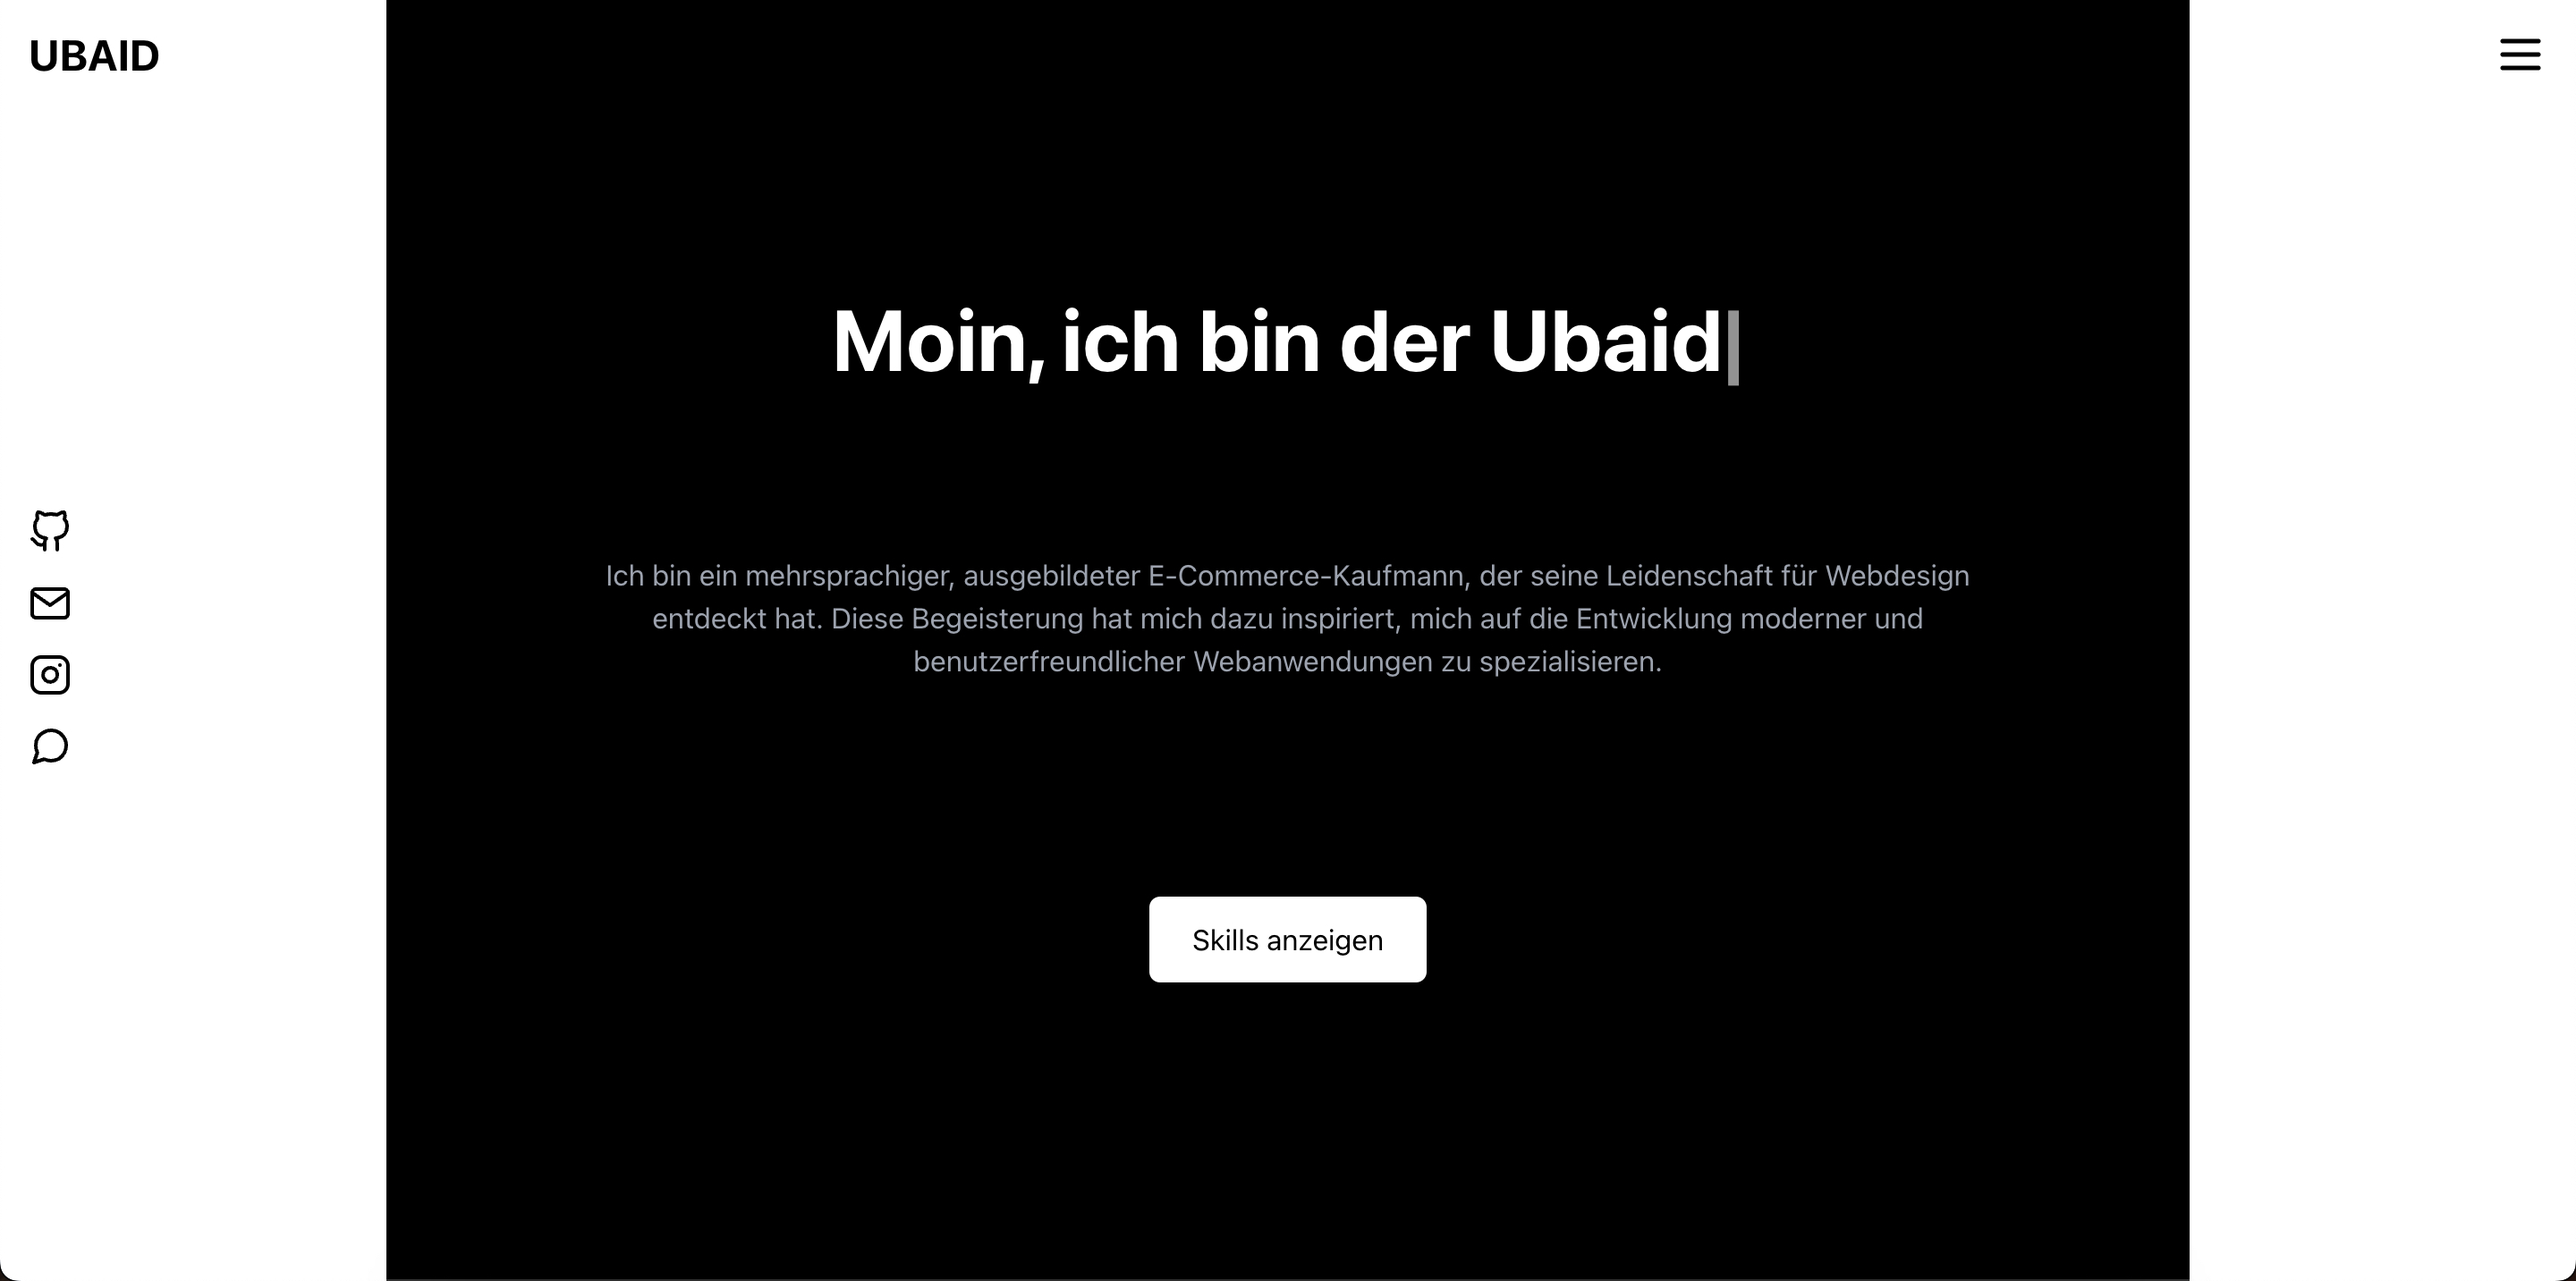
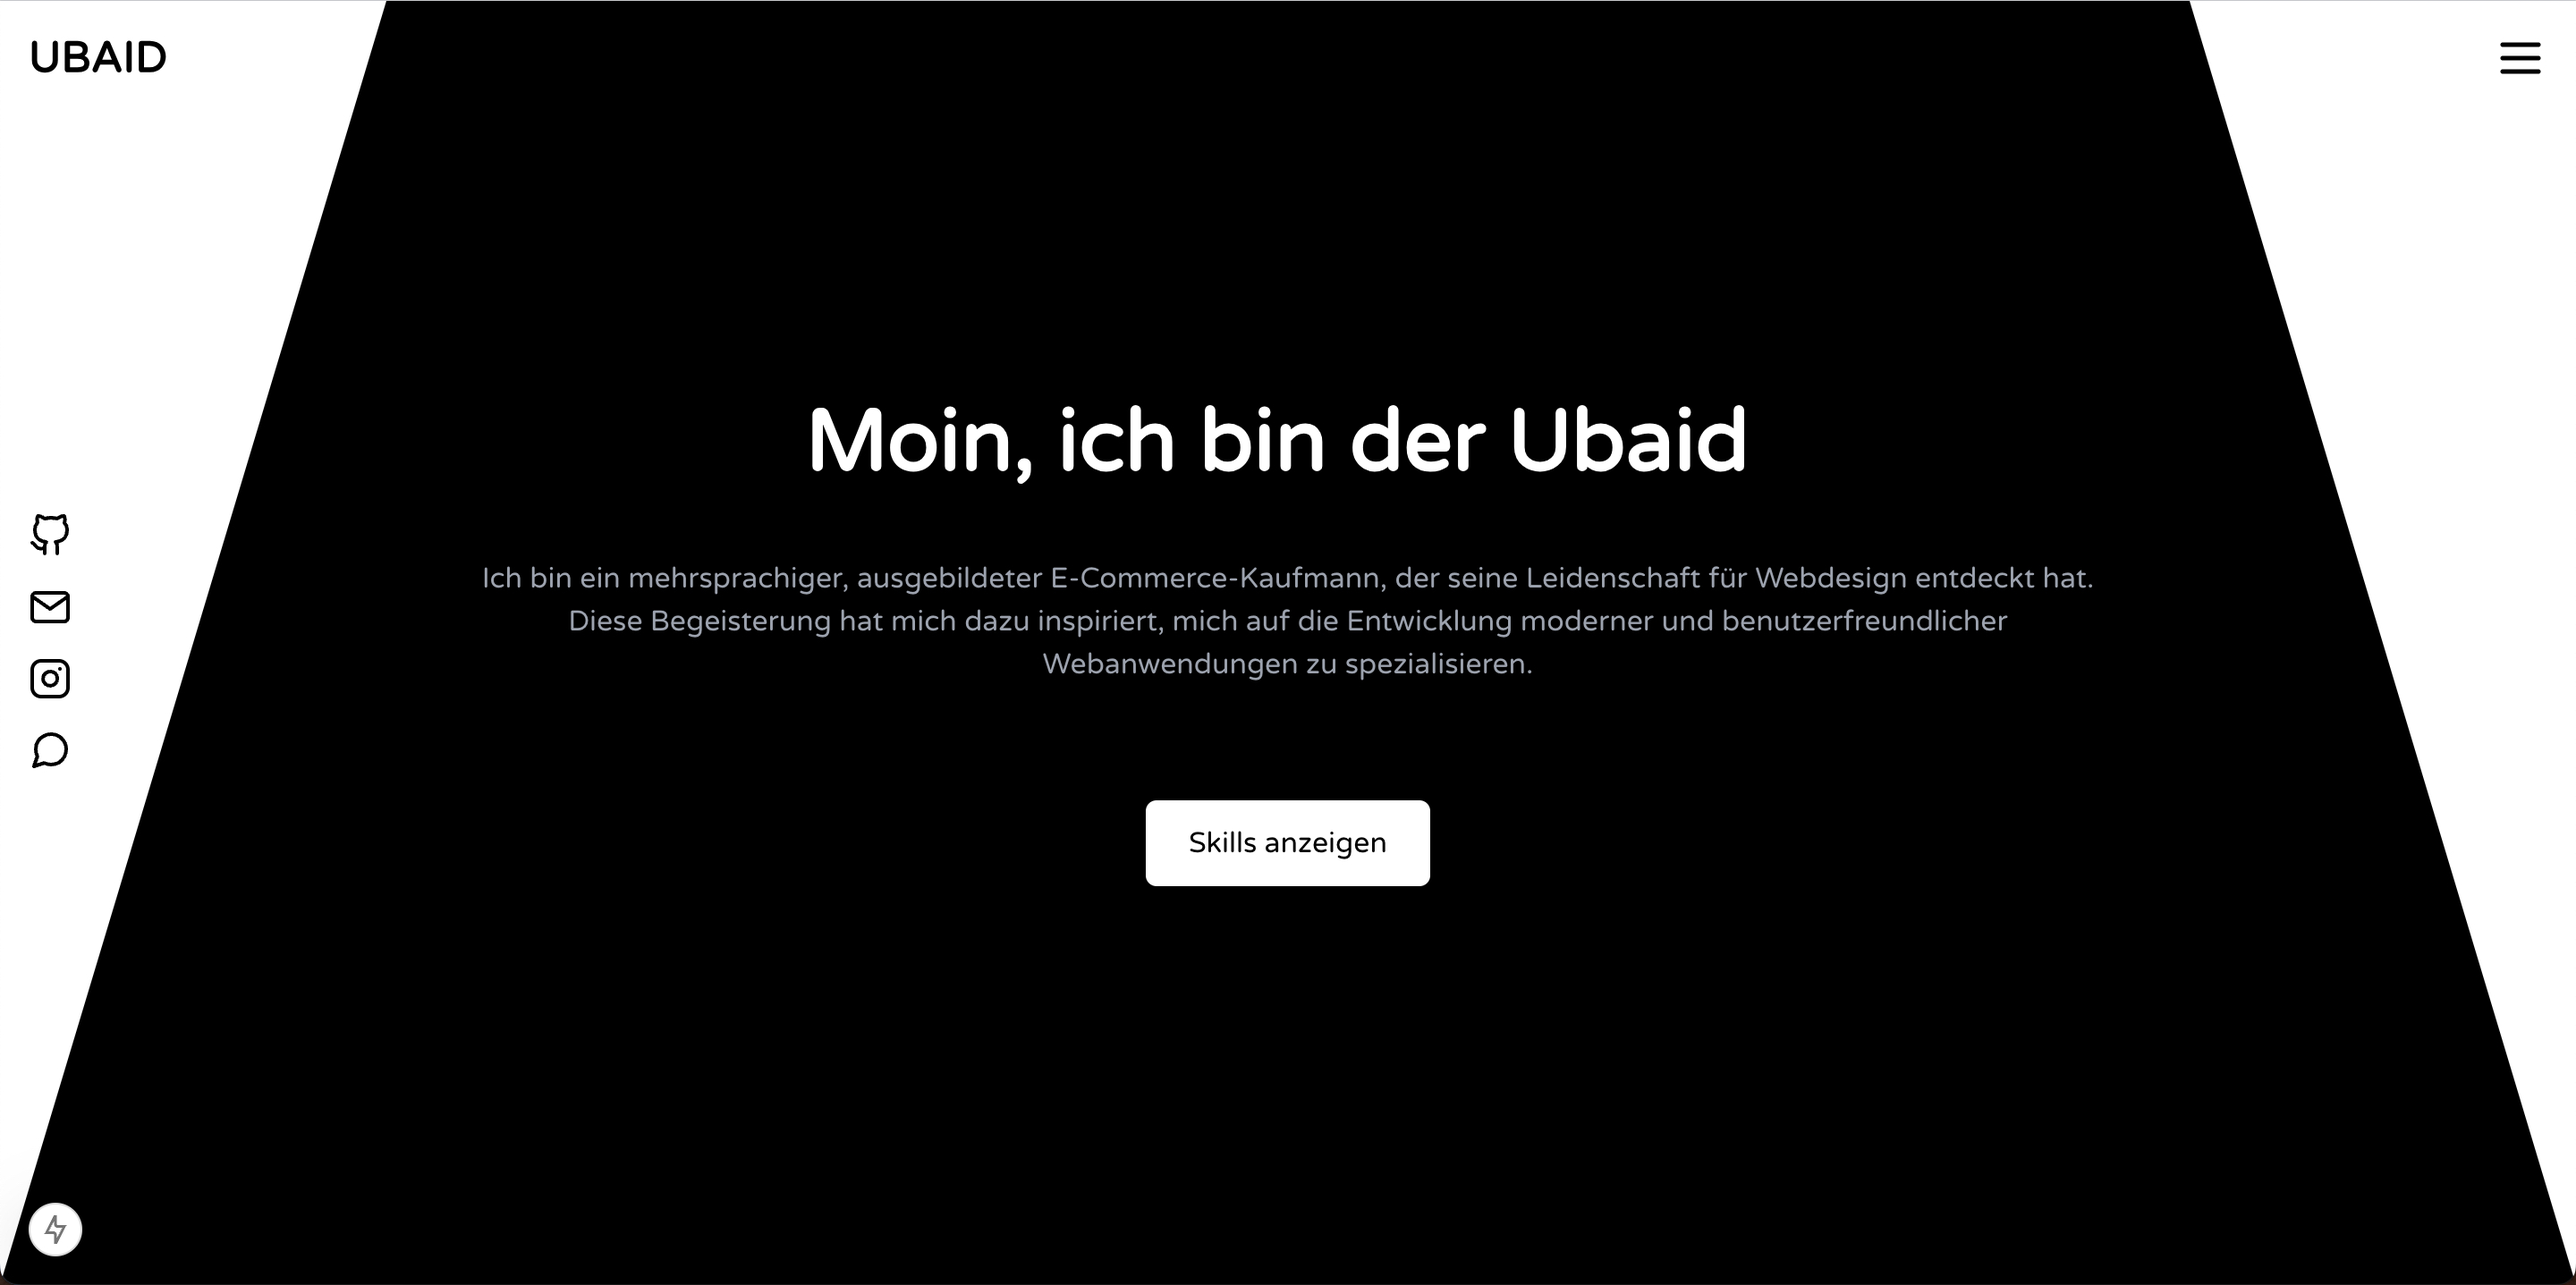
Designverbesserungen

diff --git a/components/HeroSection.tsx b/components/HeroSection.tsx
@@ -30,19 +30,25 @@ export default function HeroSection() {
       <Header isMenuOpen={isMenuOpen} setIsMenuOpen={setIsMenuOpen} />
 
       {/* Left white column (social icons) - hidden on mobile */}
-      <div className="hidden md:flex md:w-[15%] bg-white justify-left items-center p-4 min-h-screen">
-        <div className="flex flex-col space-y-4">
-        <SocialIcon icon="github" />
-        <SocialIcon icon="email" />
-        <SocialIcon icon="instagram" />
-        <SocialIcon icon="whatsapp" />
-        </div>
-      </div>
+      <div className="hidden md:flex md:w-[15%] bg-white justify-left items-center p-4 min-h-screen relative overflow-hidden">
+  {/* Diagonale Hälfte */}
+  <div className="absolute top-0 left-0 w-full h-full bg-black clip-diagonal-flipped" />
+
+  {/* Inhalte */}
+  <div className="flex flex-col space-y-4 relative z-10">
+    <SocialIcon icon="github" />
+    <SocialIcon icon="email" />
+    <SocialIcon icon="instagram" />
+    <SocialIcon icon="whatsapp" />
+  </div>
+</div>
+
+
 
       {/* Middle column */}
       <div className="w-full md:w-[70%] flex flex-col justify-center items-center px-4 py-20">
         <TypedHeadline headlines={headlines} />
-        <p className="text-[clamp(1rem, 2.5vw, 1.25rem)] animate-fade-in-up text-gray-700 md:text-gray-400 p-20">
+        <p className="text-[clamp(1rem, 2.5vw, 1.25rem)] animate-fade-in-up text-gray-700 md:text-gray-400 p-6 md-p-20">
         Ich bin ein mehrsprachiger, ausgebildeter E-Commerce-Kaufmann, der seine Leidenschaft für Webdesign entdeckt hat. Diese Begeisterung hat mich dazu inspiriert, mich auf die Entwicklung moderner und benutzerfreundlicher Webanwendungen zu spezialisieren.
         </p>
 
@@ -56,7 +62,12 @@ export default function HeroSection() {
       </div>
 
       {/* Right white column */}
-      <div className="hidden md:block md:w-[15%] bg-white min-h-screen"></div>
-    </div>
+      <div className="hidden md:block md:w-[15%] bg-white min-h-screen relative overflow-hidden">
+        {/* Diagonale schwarze Fläche */}
+        <div className="absolute top-0 left-0 w-full h-full bg-black clip-triangle-up-left" />
+      </div>
+
+
+</div>
   )
 }

diff --git a/styles/globals.css b/styles/globals.css
@@ -2,6 +2,20 @@
 @tailwind components;
 @tailwind utilities;
 
+/* Standard-Schriftart für alle Elemente */
+html {
+  font-family: var(--font-varela-round), sans-serif;
+}
+
+/* Optionale Feinjustierung für andere Elemente */
+body {
+  margin: 0;
+  padding: 0;
+  font-size: 16px; /* Basisgröße (kann angepasst werden) */
+  line-height: 1.5; /* Lesbarkeit verbessern */
+}
+
+
 .tooltip {
     position: absolute;
     display: inline-block;
@@ -27,4 +41,76 @@
   .tooltip:hover::after {
     opacity: 1;
   }
+  
+  .clip-diagonal-flipped {
+    clip-path: polygon(100% 100%, 100% 0, 0 100%);
+    z-index: 0; /* Damit es unter dem Inhalt bleibt */
+  }
+
+  .clip-triangle-up-left {
+    clip-path: polygon(0 100%, 100% 100%, 0 0);
+    z-index: 0; /* Die schwarze Fläche bleibt im Hintergrund */
+  }
+  
+  @keyframes fadeInUp {
+    0% {
+      opacity: 0;
+      transform: translateY(20px);
+    }
+    100% {
+      opacity: 1;
+      transform: translateY(0);
+    }
+  }
+  
+  .animate-fade-in-up {
+    animation: fadeInUp 1s ease-out;
+  }
+  
+  
+  .active-project {
+    position: relative;
+  }
+
+  .active-project::before {
+    content: '';
+    position: absolute;
+    top: -2px;
+    right: -2px;
+    bottom: -2px;
+    left: -2px;
+    background: linear-gradient(90deg, #ff0000, #ffa500, #ffff00, #008000, #0000ff, #4b0082, #ee82ee);
+    background-size: 400% 400%;
+    border-radius: 8px;
+    z-index: -1;
+    animation: moveGradient 8s linear infinite;
+  }
+
+  .active-project::after {
+    content: '';
+    position: absolute;
+    top: 0;
+    right: 0;
+    bottom: 0;
+    left: 0;
+    background: #1a1a1a;
+    border-radius: 6px;
+    z-index: -1;
+  }
+  
+  .shadow-custom {
+    box-shadow: 1px 1px 10px rgba(191, 191, 191, 0.5);
+  }
+
+  @keyframes moveGradient {
+    0% {
+      background-position: 0% 50%;
+    }
+    100% {
+      background-position: 400% 50%;
+    }
+  }
+  
+  
+  
   

diff --git a/components/ProjectSection.tsx b/components/ProjectSection.tsx
@@ -140,51 +140,6 @@ export function ProjectSection() {
             );
         })}
       </div>
-
-      <style jsx global>{`
-        .active-project {
-          position: relative;
-        }
-
-        .active-project::before {
-          content: '';
-          position: absolute;
-          top: -2px;
-          right: -2px;
-          bottom: -2px;
-          left: -2px;
-          background: linear-gradient(90deg, #ff0000, #ffa500, #ffff00, #008000, #0000ff, #4b0082, #ee82ee);
-          background-size: 400% 400%;
-          border-radius: 8px;
-          z-index: -1;
-          animation: moveGradient 8s linear infinite;
-        }
-
-        .active-project::after {
-          content: '';
-          position: absolute;
-          top: 0;
-          right: 0;
-          bottom: 0;
-          left: 0;
-          background: #1a1a1a;
-          border-radius: 6px;
-          z-index: -1;
-        }
-        
-        .shadow-custom {
-          box-shadow: 1px 1px 10px rgba(191, 191, 191, 0.5);
-        }
-
-        @keyframes moveGradient {
-          0% {
-            background-position: 0% 50%;
-          }
-          100% {
-            background-position: 400% 50%;
-          }
-        }
-      `}</style>
     </div>
   );
 }

diff --git a/app/layout.tsx b/app/layout.tsx
@@ -1,15 +1,11 @@
 import type { Metadata } from "next";
-import { Geist, Geist_Mono } from "next/font/google";
+import { Varela_Round } from "next/font/google";
 import "./globals";
 
-const geistSans = Geist({
-  variable: "--font-geist-sans",
+const varelaRound = Varela_Round({
+  variable: "--font-varela-round",
   subsets: ["latin"],
-});
-
-const geistMono = Geist_Mono({
-  variable: "--font-geist-mono",
-  subsets: ["latin"],
+  weight: "400",
 });
 
 export const metadata: Metadata = {
@@ -23,12 +19,8 @@ export default function RootLayout({
   children: React.ReactNode;
 }>) {
   return (
-    <html lang="de">
-      <body
-        className={`${geistSans.variable} ${geistMono.variable} antialiased`}
-      >
-        {children}
-      </body>
+    <html lang="de" className={varelaRound.variable}>
+      <body className="antialiased">{children}</body>
     </html>
   );
 }

diff --git a/components/Contact-Section.tsx b/components/Contact-Section.tsx
@@ -156,7 +156,7 @@ export default function ContactSection() {
       {showButton && (
         <button
           onClick={scrollToTop}
-          className="fixed bottom-8 right-8 bg-gray-800 text-white p-3 rounded-md shadow-lg hover:bg-gray-500 transition-all duration-400"
+          className="fixed bottom-8 right-8 bg-gray-400 text-white w-10 h-10 p-2 rounded-md shadow-lg hover:bg-black transition-all duration-400"
         >
           ↑
         </button>
